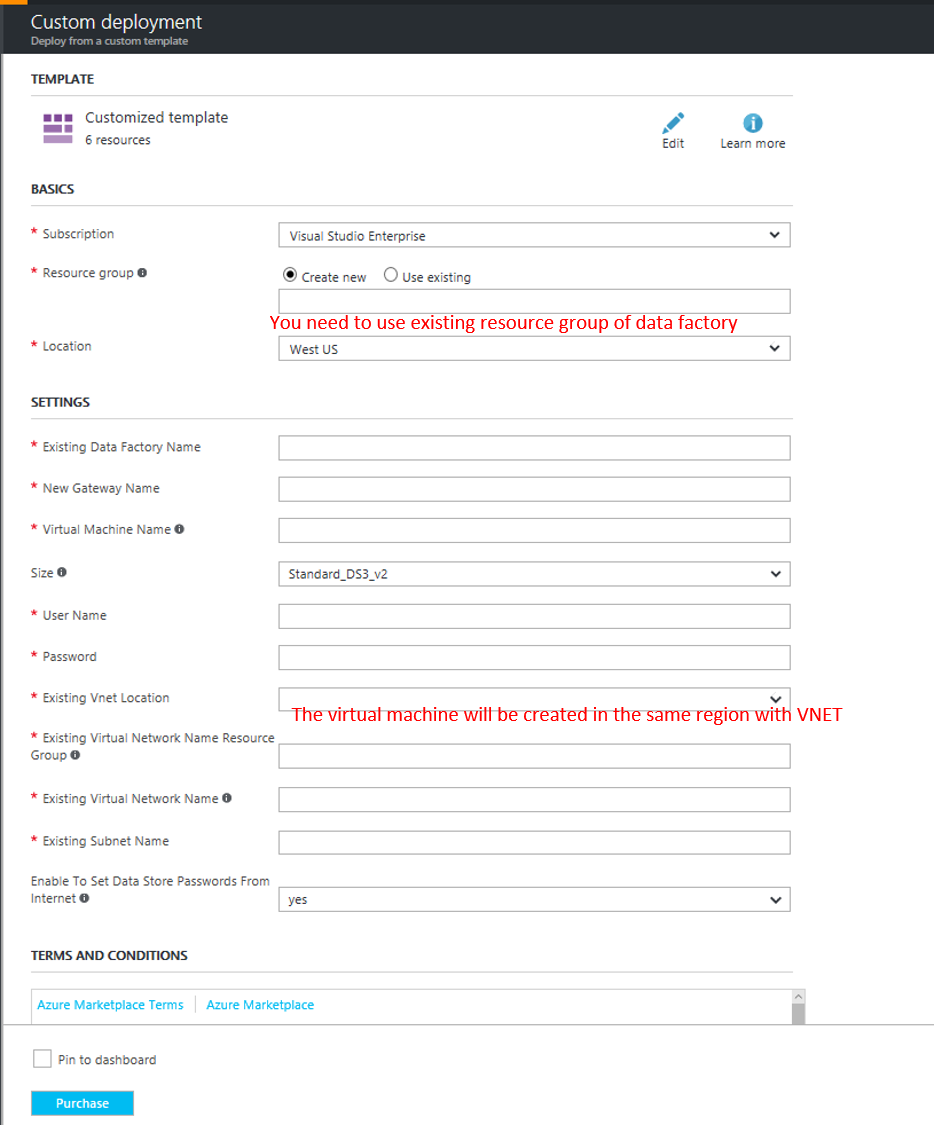
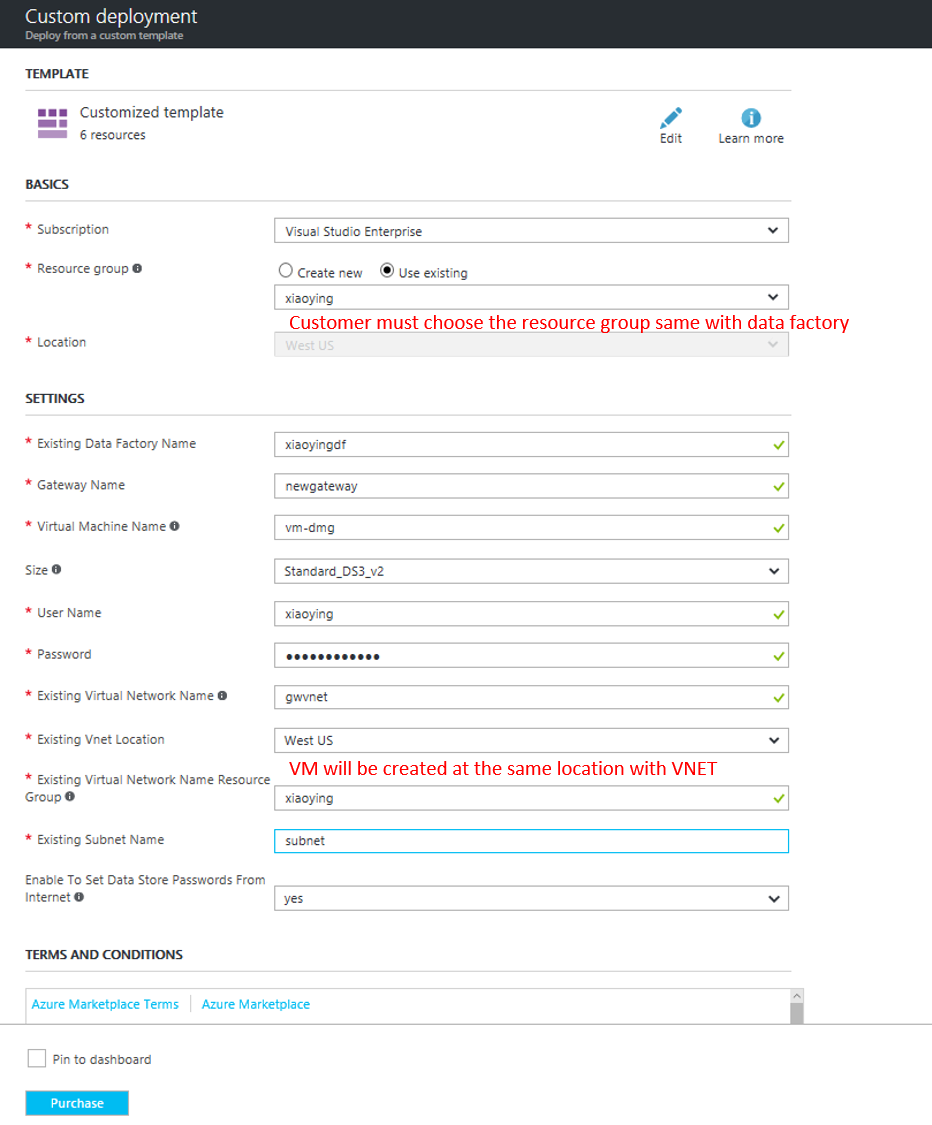
add screencut

diff --git a/README.md b/README.md
@@ -22,3 +22,7 @@ This template will create an additional storage account for vm system image and 
 ```
 
 This template will create a gateway and help you make it workable in azure VM. The VM can join in an exsiting VNET.
+
+## Screenshot
+
+![Azure Custom Deployment](images/screencut.png)
